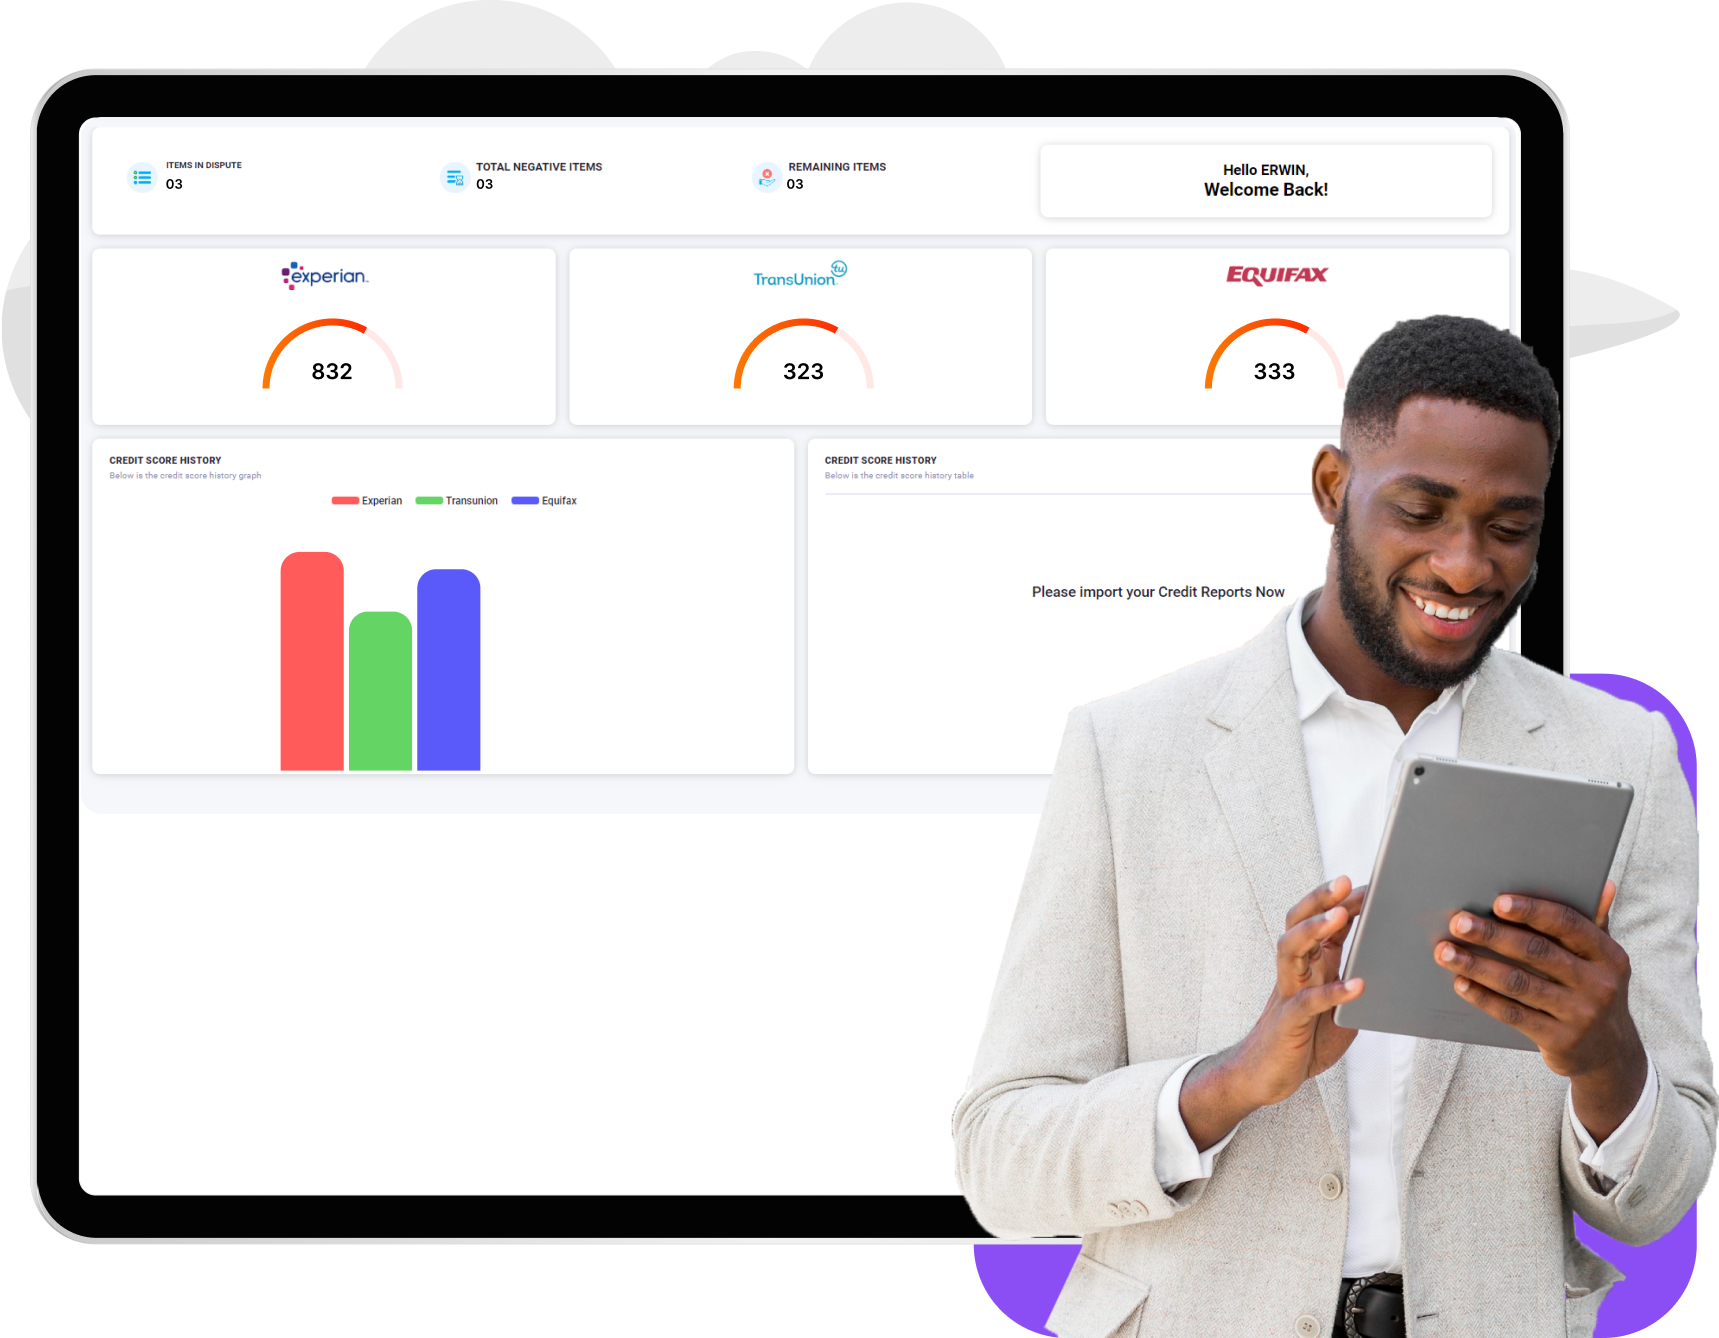
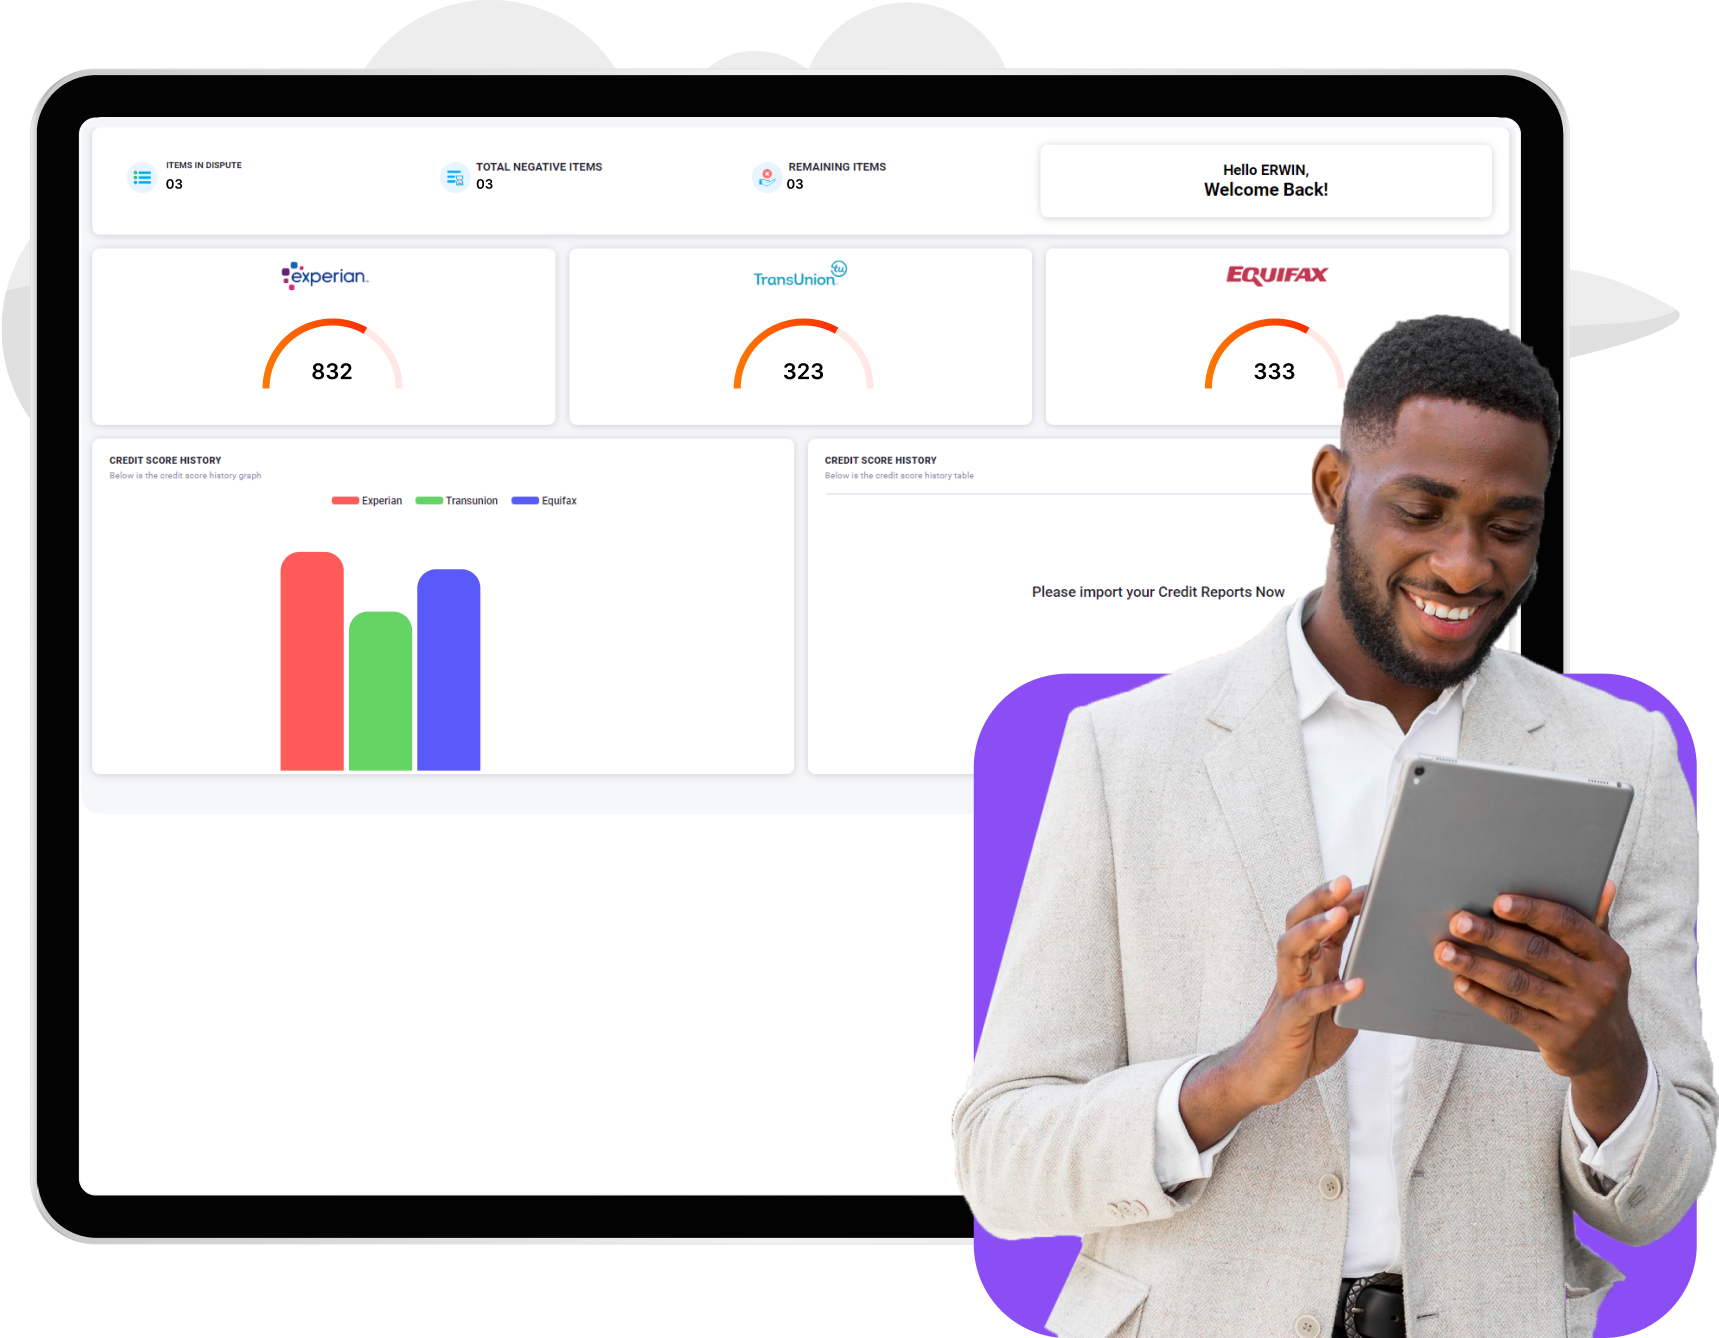
add position objects-1

Changed region(s): [[0.555, 0.4903, 0.6783, 0.7967], [0.555, 0.9193, 0.6166, 0.9499]]

diff --git a/src/app/(landing-page)/_components/diy-platform.tsx b/src/app/(landing-page)/_components/diy-platform.tsx
@@ -2,41 +2,97 @@ import Image from "next/image";
 import left from "@/public/diy-platform-left.tsx.png";
 import bot from "@/public/diy-credits2-left-bot.png";
 import meter1 from "@/public/hero-meter-1.png";
+import leftObj1 from "@/public/diy-platform-left-obj-1.png";
+import leftObj2 from "@/public/diy-platform-left-obj-2.png";
+import rightObj1 from "@/public/diy-platform-right-obj-1.png";
+import rightObj2 from "@/public/diy-platform-right-obj-2.png";
+import rightObj3 from "@/public/diy-platform-right-obj-3.png";
+import rightObj4 from "@/public/diy-platform-right-obj-4.png";
+import rightObj5 from "@/public/diy-platform-right-obj-5.png";
 
 const DiyPlatform = () => {
   return (
     <div className="relative">
-      <div className="mx-auto homepage-container px-[20px] md:px-[50px] lg:px-[50px] xl:px-[100px] 2xl:px-[200px] pt-[70px] lg:pt-[100px] 2xl:pt-[200px] pb-[70px] lg:pb-[80px] 2xl:pb-[120px]">
+      <div>
+        <Image
+          src={leftObj2}
+          alt="leftObj2"
+          className="absolute left-[0px] bottom-[60%] sm:bottom-[50%] lg:left-[-20px] lg:bottom-[25%] 2xl:left-[-10px] 2xl:bottom-[20%] w-[40%] lg:w-[15%] 2xl:w-[12%]"
+          style={{ zIndex: 1 }}
+        />
+      </div>
+      <div className="mx-auto homepage-container px-[20px] md:px-[50px] lg:px-[50px] xl:px-[80px] 2xl:px-[120px] pt-[70px] lg:pt-[100px] 2xl:pt-[200px] pb-[100px] sm:pb-[120px] lg:pb-[100px] 2xl:pb-[120px]">
         <div className="flex flex-col lg:flex-row lg:justify-between lg:items-center gap-x-[50px] gap-y-[50px]">
           <div className="w-full lg:w-[50%] relative flex justify-center">
             <Image
               src={left}
               alt="right"
               className="w-[90%] sm:w-[70%] lg:w-[100%] 2xl:w-[100%]"
+              style={{ zIndex: 2 }}
             />
             <Image
               src={bot}
               alt="bot"
               className="absolute left-[10px] bottom-[10px] lg:left-[0px] lg:bottom-[20px] 2xl:left-[0px] 2xl:bottom-[50px] w-[100px] h-[120px] md:w-[130px] md:h-[170px] lg:w-[130px] lg:h-[170px] 2xl:w-[200px] 2xl:h-[240px]"
+              style={{ zIndex: 3 }}
+            />
+            <Image
+              src={leftObj1}
+              alt="leftObj1"
+              className="absolute left-[0px] top-[0px] lg:left-[-20px] lg:top-[0px] 2xl:left-[-10px] 2xl:top-[0px] w-[70px] h-[50px] md:w-[80px] md:h-[60px] lg:w-[90px] lg:h-[75px] 2xl:w-[100px] 2xl:h-[85px]"
+              style={{ zIndex: 1 }}
             />
           </div>
-          <div className="w-full lg:w-[50%]">
+          <div className="w-full lg:w-[50%] relative">
+            <div>
+              <Image
+                src={rightObj1}
+                alt="rightObj1"
+                className="absolute left-[40%] top-[-30px] lg:left-[40%] lg:top-[-30px] 2xl:left-[40%] 2xl:top-[-30px] w-[45px] h-[60px] md:w-[55px] md:h-[70px] lg:w-[65px] lg:h-[80px] 2xl:w-[70px] 2xl:h-[85px]"
+                style={{ zIndex: 1 }}
+              />
+            </div>
+            <div>
+              <Image
+                src={rightObj2}
+                alt="rightObj2"
+                className="absolute right-[-10px] bottom-[32%] lg:right-[-30px] lg:bottom-[30%] xl:right-[-35px] xl:bottom-[15%] 2xl:right-[-30px] 2xl:bottom-[25%] w-[40px] h-[50px] md:w-[70px] md:h-[60px] lg:w-[75px] lg:h-[65px] 2xl:w-[80px] 2xl:h-[70px]"
+                style={{ zIndex: 1 }}
+              />
+            </div>
+            <Image
+              src={rightObj3}
+              alt="rightObj3"
+              className="absolute left-[-20px] bottom-[-50px] sm:left-[-50px] sm:bottom-[-90px] lg:left-[-50px] lg:bottom-[-70px] 2xl:left-[-150px] 2xl:bottom-[-100px] w-[40%] lg:w-[40%] 2xl:w-[40%]"
+              style={{ zIndex: 1 }}
+            />
+            <div>
+              <Image
+                src={rightObj4}
+                alt="rightObj4"
+                className="absolute left-[40%] bottom-[-20%] lg:left-[40%] lg:bottom-[-30%] 2xl:left-[25%] 2xl:bottom-[-35%] w-[55px] h-[60px] md:w-[65px] md:h-[70px] lg:w-[75px] lg:h-[80px] 2xl:w-[80px] 2xl:h-[85px]"
+                style={{ zIndex: 1 }}
+              />
+            </div>
+            <Image
+              src={rightObj5}
+              alt="rightObj5"
+              className="absolute right-[10px] bottom-[-20%] sm:bottom-[-30%] lg:right-[30px] lg:bottom-[-30%] xl:right-[30px] xl:bottom-[-30%] 2xl:right-[20px] 2xl:bottom-[-40%] w-[40%] sm:w-[30%] lg:w-[40%] 2xl:w-[35%]"
+              style={{ zIndex: 1 }}
+            />
             <div>
               <Image
                 src={meter1}
                 alt="meter1"
                 className="w-[90px] lg:w-[100px] 2xl:w-[150px]"
               />
-              <h1 className="mt-[20px] lg:mt-[30px] w-[100%] uppercase font-semibold text-[26px] md:text-[28px] lg:text-[28px] xl:text-[32px] 2xl:text-[38px] text-left">
+              <h1 className="mt-[20px] lg:mt-[30px] w-[100%] 2xl:w-[90%] uppercase font-semibold text-[26px] md:text-[28px] lg:text-[28px] xl:text-[32px] 2xl:text-[38px] text-left">
                 The world’s Totally Free DIY Credit repair platform
               </h1>
               <p className="mt-[5px] font-medium text-[15px] md:text-[16px] lg:text-[18px] 2xl:text-[20px]">
                 Just Pay for crdit monitoring. We cover the rest.
               </p>
-              <a
-                href="https://aicreditguy.com/signup.aspx/signup.aspx"
-                target="_blank"
-              >
+              <a href="https://aicreditguy.com/signup.aspx/signup.aspx">
                 <button
                   className={`mt-[10px] lg:mt-[20px] whitespace-nowrap py-[12px] px-[20px] lg:py-[12px] lg:px-[16px] xl:py-[16px] xl:px-[22px] custom-header-btn bg-transparent flex justify-center items-center rounded-[20px] lg:rounded-[24px] cursor-pointer font-semibold text-[15px] lg:text-[15px] xl:text-[15px] 2xl:text-[17px] text-white hover:text-black`}
                 >

diff --git a/src/app/(landing-page)/_components/diy-doing.tsx b/src/app/(landing-page)/_components/diy-doing.tsx
@@ -2,10 +2,19 @@ import Image from "next/image";
 import left from "@/public/diy-doing-left.png";
 import bot from "@/public/diy-credits2-left-bot.png";
 import lines from "@/public/diy-doing-lines.png";
+import right1 from "@/public/diy-doing-right1.png";
+import right2 from "@/public/diy-doing-right2.png";
 
 const DiyDoing = () => {
   return (
     <div className="relative">
+      <div>
+        <Image
+          src={right2}
+          alt="right2"
+          className="w-[20%] lg:w-[13%] 2xl:w-[12%] h-auto absolute right-[0%] bottom-[0%] sm:bottom-[-5%] lg:bottom-[0%] 2xl:bottom-[0%]"
+        />
+      </div>
       <div className="flex flex-col items-center text-center px-[20px] md:px-[50px] lg:px-[50px] xl:px-[90px] 2xl:px-[120px]">
         <h1 className="w-[100%] uppercase font-semibold text-[26px] md:text-[28px] lg:text-[28px] xl:text-[32px] 2xl:text-[38px] text-center">
           do it yourself or do it for your family
@@ -14,7 +23,14 @@ const DiyDoing = () => {
           DIY Credit Repair Made Easy
         </p>
       </div>
-      <div className="">
+      <div>
+        <Image
+          src={right1}
+          alt="right1"
+          className="w-[60px] h-[60px] lg:w-[70px] lg:h-[70px] 2xl:w-[90px] 2xl:h-[90px] absolute right-[5%] lg:right-[10%] 2xl:right-[20%] top-[55%] md:top-[50%] lg:top-[4%] 2xl:top-[5%]"
+        />
+      </div>
+      <div>
         <Image
           src={lines}
           alt="lines"
@@ -43,10 +59,7 @@ const DiyDoing = () => {
               <p className="mt-[5px] font-medium text-[15px] md:text-[16px] lg:text-[18px] 2xl:text-[20px]">
                 Just Pay for crdit monitoring. We cover the rest.
               </p>
-              <a
-                href="https://aicreditguy.com/signup.aspx/signup.aspx"
-                target="_blank"
-              >
+              <a href="https://aicreditguy.com/signup.aspx/signup.aspx">
                 <button
                   className={`mt-[10px] lg:mt-[20px] whitespace-nowrap py-[12px] px-[20px] lg:py-[12px] lg:px-[16px] xl:py-[16px] xl:px-[22px] custom-header-btn bg-transparent flex justify-center items-center rounded-[20px] lg:rounded-[24px] cursor-pointer font-semibold text-[15px] lg:text-[15px] xl:text-[15px] 2xl:text-[17px] text-white hover:text-black`}
                 >

diff --git a/src/app/(landing-page)/_components/header.tsx b/src/app/(landing-page)/_components/header.tsx
@@ -98,7 +98,7 @@ const Header = () => {
                 <li
                   data-aos="fade-down"
                   data-aos-easing="ease-in-sine"
-                  data-aos-duration="900"
+                  data-aos-duration="700"
                 >
                   <div className="btn-test from-bottom">
                     <a
@@ -151,10 +151,7 @@ const Header = () => {
                 </li>
               </ul>
             </nav>
-            <a
-              href="https://aicreditguy.com/signup.aspx/signup.aspx"
-              target="_blank"
-            >
+            <a href="https://aicreditguy.com/signup.aspx/signup.aspx">
               <button
                 className={`whitespace-nowrap py-[12px] px-[20px] lg:py-[12px] lg:px-[16px] xl:py-[16px] xl:px-[22px] custom-header-btn bg-transparent flex justify-center items-center rounded-[20px] lg:rounded-[24px] cursor-pointer font-semibold text-[15px] lg:text-[15px] xl:text-[15px] 2xl:text-[17px] text-white hover:text-black`}
               >
@@ -267,10 +264,7 @@ const Header = () => {
                 // data-aos-easing="ease-in-sine"
                 // data-aos-duration="1900"
               >
-                <a
-                  href="https://aicreditguy.com/signup.aspx/signup.aspx"
-                  target="_blank"
-                >
+                <a href="https://aicreditguy.com/signup.aspx/signup.aspx">
                   <button
                     className={`whitespace-nowrap py-[12px] px-[20px] lg:py-[12px] lg:px-[16px] xl:py-[16px] xl:px-[22px] custom-header-btn bg-transparent flex justify-center items-center rounded-[20px] lg:rounded-[24px] cursor-pointer font-semibold text-[15px] lg:text-[15px] xl:text-[15px] 2xl:text-[17px] text-white hover:text-black`}
                   >

diff --git a/src/app/(landing-page)/_components/hero.tsx b/src/app/(landing-page)/_components/hero.tsx
@@ -50,10 +50,7 @@ const Hero = () => {
               AI DRIVEN TOOLS TO GET YOUR CREDIT BACK ON TRACK
             </p>
             <div className="relative">
-              <a
-                href="https://aicreditguy.com/signup.aspx/signup.aspx"
-                target="_blank"
-              >
+              <a href="https://aicreditguy.com/signup.aspx/signup.aspx">
                 <button
                   className={`mt-[20px] lg:mt-[30px] whitespace-nowrap py-[12px] px-[20px] lg:py-[12px] lg:px-[16px] xl:py-[16px] xl:px-[22px] custom-header-btn bg-transparent flex justify-center items-center rounded-[20px] lg:rounded-[24px] cursor-pointer font-semibold text-[15px] lg:text-[15px] xl:text-[15px] 2xl:text-[17px] text-white hover:text-black`}
                 >

diff --git a/src/app/(landing-page)/_components/ai-credit-guy.tsx b/src/app/(landing-page)/_components/ai-credit-guy.tsx
@@ -67,10 +67,7 @@ const AiCreditGuy = () => {
               </table>
             </div>
             <div className="flex justify-center">
-              <a
-                href="https://aicreditguy.com/signup.aspx/signup.aspx"
-                target="_blank"
-              >
+              <a href="https://aicreditguy.com/signup.aspx/signup.aspx">
                 <button
                   className={`mt-[20px] lg:mt-[30px] whitespace-nowrap py-[12px] px-[20px] lg:py-[12px] lg:px-[16px] xl:py-[16px] xl:px-[22px] custom-header-btn bg-transparent flex justify-center items-center rounded-[20px] lg:rounded-[24px] cursor-pointer font-semibold text-[15px] lg:text-[15px] xl:text-[15px] 2xl:text-[17px] text-white hover:text-black`}
                 >

diff --git a/src/app/(landing-page)/page.tsx b/src/app/(landing-page)/page.tsx
@@ -1,3 +1,8 @@
+"use client";
+
+import React from "react";
+import AOS from "aos";
+import "aos/dist/aos.css";
 import AiCreditGuy from "./_components/ai-credit-guy";
 import DiyCreditsMain from "./_components/diy-credits/diy-credits-main";
 import DiyDoing from "./_components/diy-doing";
@@ -9,6 +14,14 @@ import SimpleSteps from "./_components/simple-steps";
 import Terms from "./_components/terms";
 
 export default function Home() {
+  React.useEffect(() => {
+    AOS.init({
+      // duration: 1000,
+      // easing: "ease-out-cubic",
+      once: true,
+    });
+  }, []);
+
   return (
     <div>
       <Header />

diff --git a/src/app/(landing-page)/_components/diy-credits/diy-credits1.tsx b/src/app/(landing-page)/_components/diy-credits/diy-credits1.tsx
@@ -1,6 +1,12 @@
 import Image from "next/image";
 import right from "@/public/diy-credits-right.png";
 import bot from "@/public/diy-credits-right-bot.png";
+import left1 from "@/public/diy-credits-1-left1.png";
+import left2 from "@/public/diy-credits-1-left2.png";
+import left3 from "@/public/diy-credits-1-left3.png";
+import left4 from "@/public/diy-credits-1-left4.png";
+import left5 from "@/public/diy-credits-1-left5.png";
+import left6 from "@/public/diy-credits-1-left1.png";
 
 const DiyCredits1 = () => {
   return (

diff --git a/src/app/(landing-page)/_components/diy-credits/diy-credits2.tsx b/src/app/(landing-page)/_components/diy-credits/diy-credits2.tsx
@@ -1,6 +1,11 @@
 import Image from "next/image";
 import left from "@/public/diy-credits2-left.png";
 import bot from "@/public/diy-credits2-left-bot.png";
+import left1 from "@/public/diy-credits2-left1.png";
+import right1 from "@/public/diy-credits2-right1.png";
+import right2 from "@/public/diy-credits2-right2.png";
+import right3 from "@/public/diy-credits2-right3.png";
+import right4 from "@/public/diy-credits2-right4.png";
 
 const DiyCredits2 = () => {
   return (
